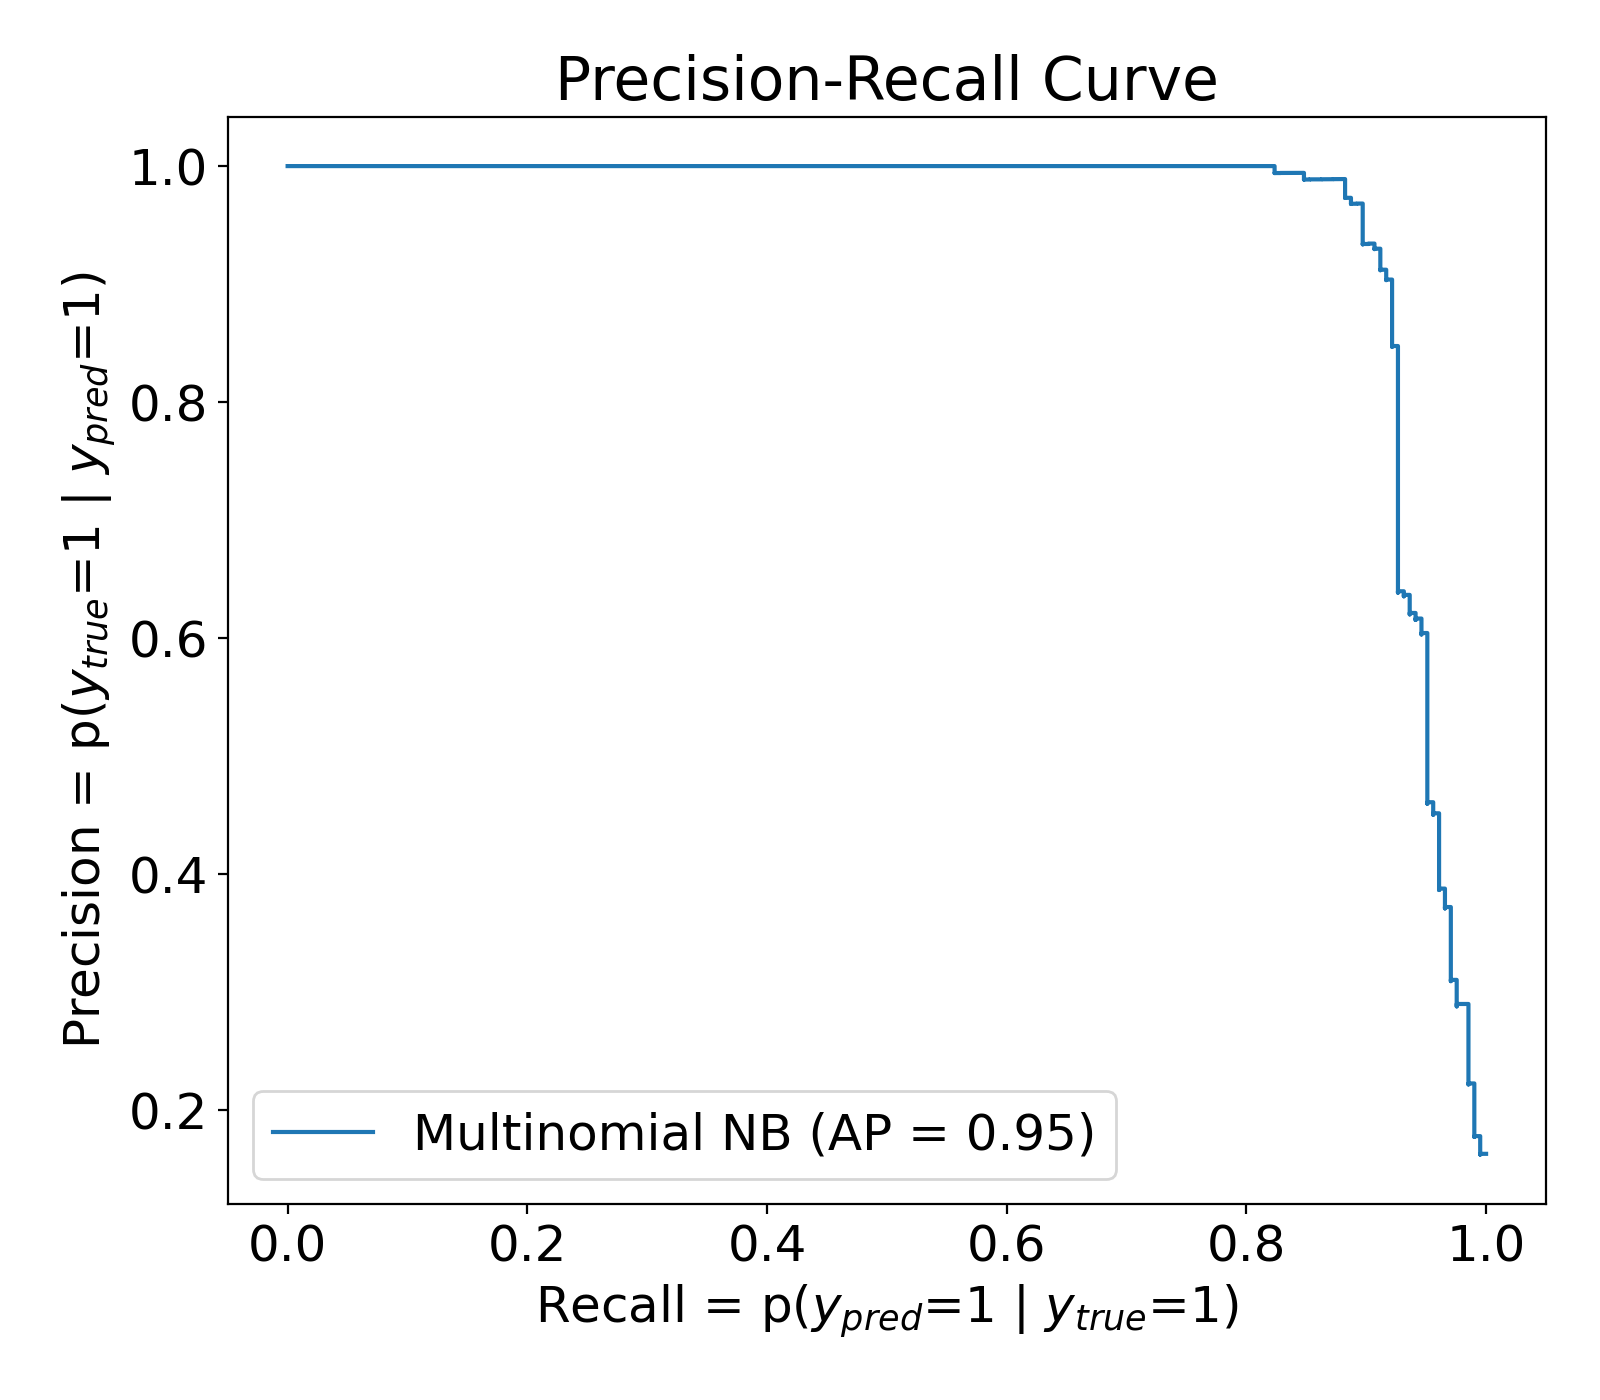
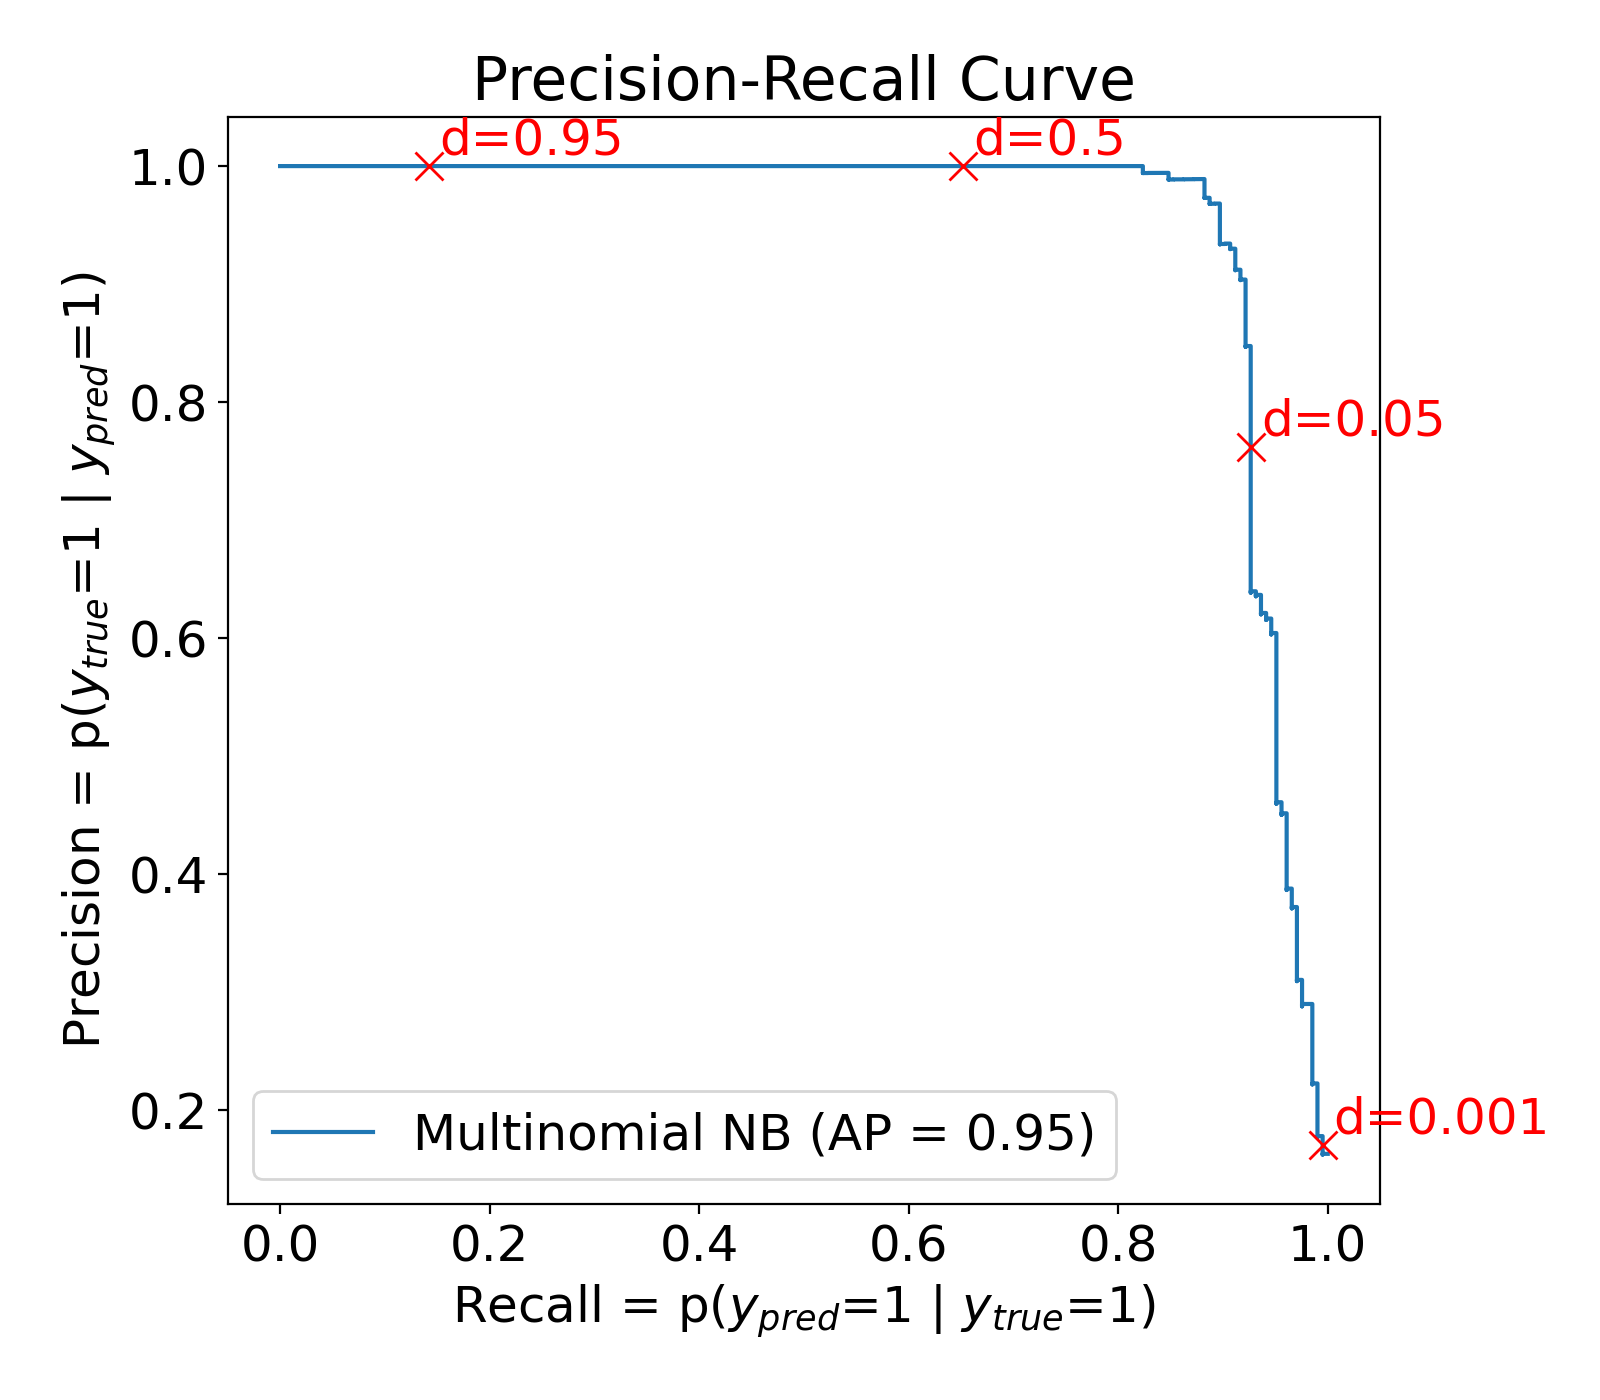
Update

diff --git a/machlearn/model_evaluation.py b/machlearn/model_evaluation.py
@@ -37,7 +37,7 @@ def plot_confusion_matrix(y_true,
     Required arguments:
         - y_true:     An array of shape (m_sample,); the labels could be {0,1}
         - y_pred:     An array of shape (m_sample,); the labels could be {0,1}
-    
+
     Optional arguments:
         - y_classes:  A list, the y_classes to be displayed
         - figsize:    A tuple, the figure size. reference: plt.rcParams.get('figure.figsize')
@@ -72,9 +72,9 @@ def plot_confusion_matrix(y_true,
         recall = TP / (TP+FN)
         # or, 2*precision*recall / (precision + recall)
         f1_score = TP / (TP + 0.5*(FP+FN))
-        alpha = FP / (TN+FP)
+        FPR = FP / (TN+FP)
         stats_text = "\n\nAccuracy(higher TP and TN) = (TP+TN)/Total = {:0.3f}\nF1 Score(lower FP and FN) = TP/(TP+0.5*(FP+FN)) = {:0.3f}\n\nTPR/recall/sensitivity = 1-FNR = p($y_{{pred}}$=1 | $y_{{true}}$=1) = {:0.3f}\nFPR = p($y_{{pred}}$=1 | $y_{{true}}$=0) = {:0.3f}\n\nPrecision = 1-FDR = p($y_{{true}}$=1 | $y_{{pred}}$=1) = {:0.3f}".format(
-            accuracy, f1_score, recall, alpha, precision)
+            accuracy, f1_score, recall, FPR, precision)
     else:
         stats_text = "\n\nAccuracy={:0.3f}".format(accuracy)
 
@@ -107,25 +107,27 @@ def plot_confusion_matrix(y_true,
 
     plt.rcParams.update({'font.size': old_font_size})
 
-    return accuracy
+    return accuracy,
 
 
 def plot_ROC_curve(y_true,
                    y_pred_score,
                    y_pos_label=1,
                    figsize=(8, 7),
-                   model_name='Binary Classifier'):
+                   model_name='Binary Classifier',
+                   plot_threshold=True):
     """
     This function plots the ROC (Receiver operating characteristic) curve, along with statistics.
 
     Required arguments:
         - y_true:       An array of shape (m_sample,); the labels could be {0,1}
         - y_pred_score: An array of shape (m_sample,); the probability estimates of the positive class
-    
+
     Optional arguments:
-        - y_pos_label:  The label of the positive class (default = 1)
-        - figsize:      A tuple, the figure size. reference: plt.rcParams.get('figure.figsize')
-        - model_name:   A string
+        - y_pos_label:    The label of the positive class (default = 1)
+        - figsize:        A tuple, the figure size. reference: plt.rcParams.get('figure.figsize')
+        - model_name:     A string
+        - plot_threshold: A boolean, whether to plot threshold or not
     """
 
     fpr, tpr, thresholds = roc_curve(
@@ -148,6 +150,21 @@ def plot_ROC_curve(y_true,
     plt.ylabel('True Positive Rate = p($y_{pred}$=1 | $y_{true}$=1)')
     plt.title('ROC Curve')
 
+    if plot_threshold:
+        for threshold in (0.001, 0.05, 0.5, 0.95, 0.999):
+            cm = confusion_matrix((y_true == y_pos_label).astype(bool),
+                                (y_pred_score >= threshold).astype(bool))
+            TP = cm[1, 1]
+            TN = cm[0, 0]
+            FP = cm[0, 1]
+            FN = cm[1, 0]
+            TPR = TP / (TP+FN)
+            FPR = FP / (TN+FP)
+            plt.plot([FPR], [TPR], marker='x', markersize=10,
+                    color="red", label=f"d={threshold}")
+            plt.annotate(text=f"d={threshold}", xy=(
+                FPR+0.01, TPR+0.01), color="red")
+
     fig.tight_layout()
     plt.show()
 
@@ -160,7 +177,8 @@ def plot_PR_curve(fitted_model,
                   y_pred_score,
                   y_pos_label=1,
                   figsize=(8, 7),
-                  model_name='Binary Classifier'):
+                  model_name='Binary Classifier',
+                  plot_threshold=True):
     """
     This function plots the precision-recall curve, along with statistics.
 
@@ -169,11 +187,12 @@ def plot_PR_curve(fitted_model,
         - X:            A matrix of m_samples x n_features
         - y_true:       An array of shape (m_sample,); the labels could be {0,1}
         - y_pred_score: An array of shape (m_sample,); the probability estimates of the positive class
-    
+
     Optional arguments:
-        - y_pos_label:  The label of the positive class (default = 1)
-        - figsize:      A tuple, the figure size. reference: plt.rcParams.get('figure.figsize')
-        - model_name:   A string
+        - y_pos_label:    The label of the positive class (default = 1)
+        - figsize:        A tuple, the figure size. reference: plt.rcParams.get('figure.figsize')
+        - model_name:     A string
+        - plot_threshold: A boolean, whether to plot threshold or not
     """
 
     AP = average_precision_score(
@@ -186,9 +205,26 @@ def plot_PR_curve(fitted_model,
 
     plot_precision_recall_curve(estimator=fitted_model, X=X, y=y_true,
                                 response_method='predict_proba', ax=ax, label=f"{model_name} (AP = {AP:0.2f})")
-    ax.set_title('Precision-Recall Curve')
     ax.set_xlabel('Recall = p($y_{pred}$=1 | $y_{true}$=1)')
     ax.set_ylabel('Precision = p($y_{true}$=1 | $y_{pred}$=1)')
+    ax.set_title('Precision-Recall Curve')
+
+    if plot_threshold:
+        for threshold in (0.001, 0.05, 0.5, 0.95, 0.999):
+            cm = confusion_matrix((y_true == y_pos_label).astype(bool),
+                                (y_pred_score >= threshold).astype(bool))
+            TP = cm[1, 1]
+            TN = cm[0, 0]
+            FP = cm[0, 1]
+            FN = cm[1, 0]
+            TPR = TP / (TP+FN)
+            FPR = FP / (TN+FP)
+            precision = TP / (TP+FP)
+            recall = TP / (TP+FN)
+            plt.plot([recall], [precision], marker='x', markersize=10,
+                    color="red", label=f"d={threshold}")
+            plt.annotate(text=f"d={threshold}", xy=(
+                recall+0.01, precision+0.01), color="red")
 
     fig.tight_layout()
     plt.show()
@@ -202,7 +238,8 @@ def plot_ROC_and_PR_curves(fitted_model,
                            y_pred_score,
                            y_pos_label=1,
                            figsize=(8, 7),
-                           model_name='Binary Classifier'):
+                           model_name='Binary Classifier',
+                           plot_threshold=True):
     """
     This function plots both the ROC and the precision-recall curves, along with statistics.
 
@@ -211,17 +248,19 @@ def plot_ROC_and_PR_curves(fitted_model,
         - X:            A matrix of m_samples x n_features
         - y_true:       An array of shape (m_sample,); the labels could be {0,1}
         - y_pred_score: An array of shape (m_sample,); the probability estimates of the positive class
-    
+
     Optional arguments:
-        - y_pos_label:  The label of the positive class (default = 1)
-        - figsize:      A tuple, the figure size. reference: plt.rcParams.get('figure.figsize')
-        - model_name:   A string
+        - y_pos_label:    The label of the positive class (default = 1)
+        - figsize:        A tuple, the figure size. reference: plt.rcParams.get('figure.figsize')
+        - model_name:     A string
+        - plot_threshold: A boolean, whether to plot threshold or not
     """
     plot_ROC_curve(y_true=y_true, y_pred_score=y_pred_score,
-                   y_pos_label=y_pos_label, figsize=figsize, model_name=model_name)
+                   y_pos_label=y_pos_label, figsize=figsize, model_name=model_name, plot_threshold=plot_threshold)
 
     plot_PR_curve(fitted_model=fitted_model, X=X,
-                  y_true=y_true, y_pred_score=y_pred_score, y_pos_label=y_pos_label, figsize=figsize, model_name=model_name)
+                  y_true=y_true, y_pred_score=y_pred_score,
+                  y_pos_label=y_pos_label, figsize=figsize, model_name=model_name, plot_threshold=plot_threshold)
 
 
 def demo():
@@ -240,4 +279,4 @@ def demo():
     y_pred = model.predict(X_test)
     accuracy = plot_confusion_matrix(y_true=y_test, y_pred=y_pred)
     plot_ROC_and_PR_curves(fitted_model=model, X=X_test,
-                           y_true=y_test, y_pred_score=y_pred_score[:, 1], model_name='Gaussian NB')
+                           y_true=y_test, y_pred_score=y_pred_score[:, 1], model_name='Gaussian NB', plot_threshold=True)

diff --git a/machlearn/naive_bayes.py b/machlearn/naive_bayes.py
@@ -106,8 +106,8 @@ def demo():
     classifier = grid.fit(X_train, y_train)
     print(
         f"Using test_size = {test_size}, the best hyperparameters for a multinomial NB model were found to be:\n"
-        f"(step1) convert from text to count matrix = CountVectorizer(analyzer = {classifier.best_params_['count_matrix_transformer__analyzer'].__name__});\n"
-        f"(step2) transform count matrix to tf-idf = TfidfTransformer(use_idf = {classifier.best_params_['count_matrix_normalizer__use_idf']}).\n")
+        f"Step1: Convert from text to count matrix = CountVectorizer(analyzer = {classifier.best_params_['count_matrix_transformer__analyzer'].__name__});\n"
+        f"Step2: Transform count matrix to tf-idf = TfidfTransformer(use_idf = {classifier.best_params_['count_matrix_normalizer__use_idf']}).\n")
     # model evaluation
     y_pred = classifier.predict(X_test)
     y_score = classifier.predict_proba(X_test)
@@ -119,7 +119,7 @@ def demo():
     custom_message = "URGENT! We are trying to contact U. Todays draw shows that you have won a 2000 prize GUARANTEED. Call 090 5809 4507 from a landline. Claim 3030. Valid 12hrs only."
     custom_results = classifier.predict([custom_message])[0]
     print(
-        f"Application example:\nMessage: [{custom_message}]\nClassification: [{custom_results}]\n")
+        f"Application example:\n- Message: [{custom_message}]\n- Probability of class=1 (spam): [{classifier.predict_proba([custom_message])[0][1]:.2f}]\n- Classification: [{custom_results}]\n")
 
     # True Positive
     #X_test_subset = X_test[y_test == 'spam']

diff --git a/machlearn/__about__.py b/machlearn/__about__.py
@@ -11,4 +11,4 @@
 # limitations under the License.
 
  
-__version__ = "0.0.26"
+__version__ = "0.0.27"

diff --git a/README.rst b/README.rst
@@ -64,12 +64,13 @@ Selected Output:
    This demo uses a public dataset of SMS spam, which has a total of 5574 messages = 747 spam and 4827 ham (legitimate).
 
    Using test_size = 0.25 and training a multinomial naive bayes model, the best hyperparameters were found to be:
-      (step1) convert from text to count matrix = CountVectorizer(analyzer = __lemmas);
-      (step2) transform count matrix to tf-idf = TfidfTransformer(use_idf = True).
+      Step1: Convert from text to count matrix = CountVectorizer(analyzer = __lemmas);
+      Step2: Transform count matrix to tf-idf = TfidfTransformer(use_idf = True).
 
    Application example:
-      Message: [URGENT! We are trying to contact U. Todays draw shows that you have won a 2000 prize GUARANTEED. Call 090 5809 4507 from a landline. Claim 3030. Valid 12hrs only.]
-      Classification: [spam]
+      - Message: [URGENT! We are trying to contact U. Todays draw shows that you have won a 2000 prize GUARANTEED. Call 090 5809 4507 from a landline. Claim 3030. Valid 12hrs only.]
+      - Probability of class=1 (spam): [0.96]
+      - Classification: [spam]
 
 
 .. list-table::
